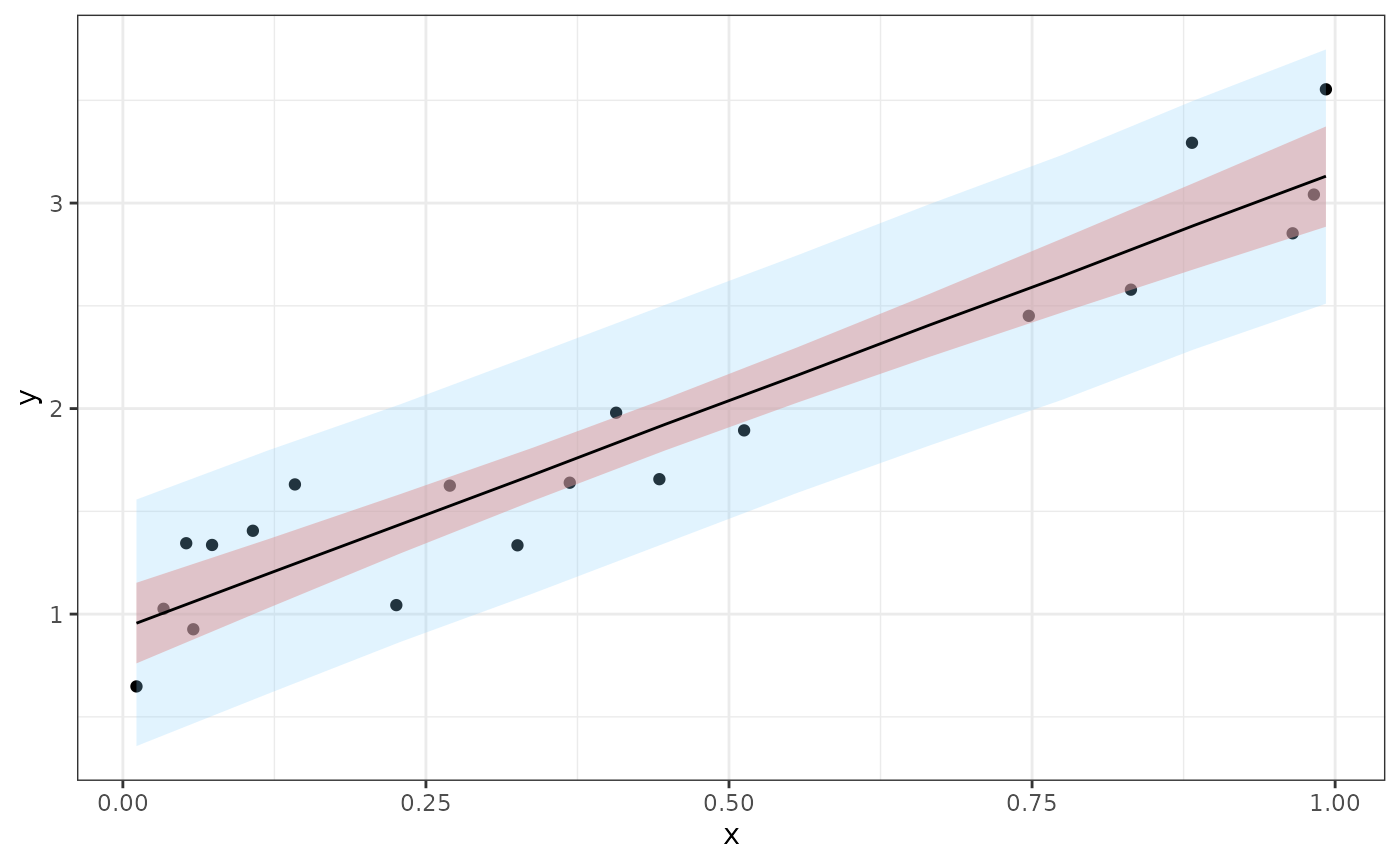
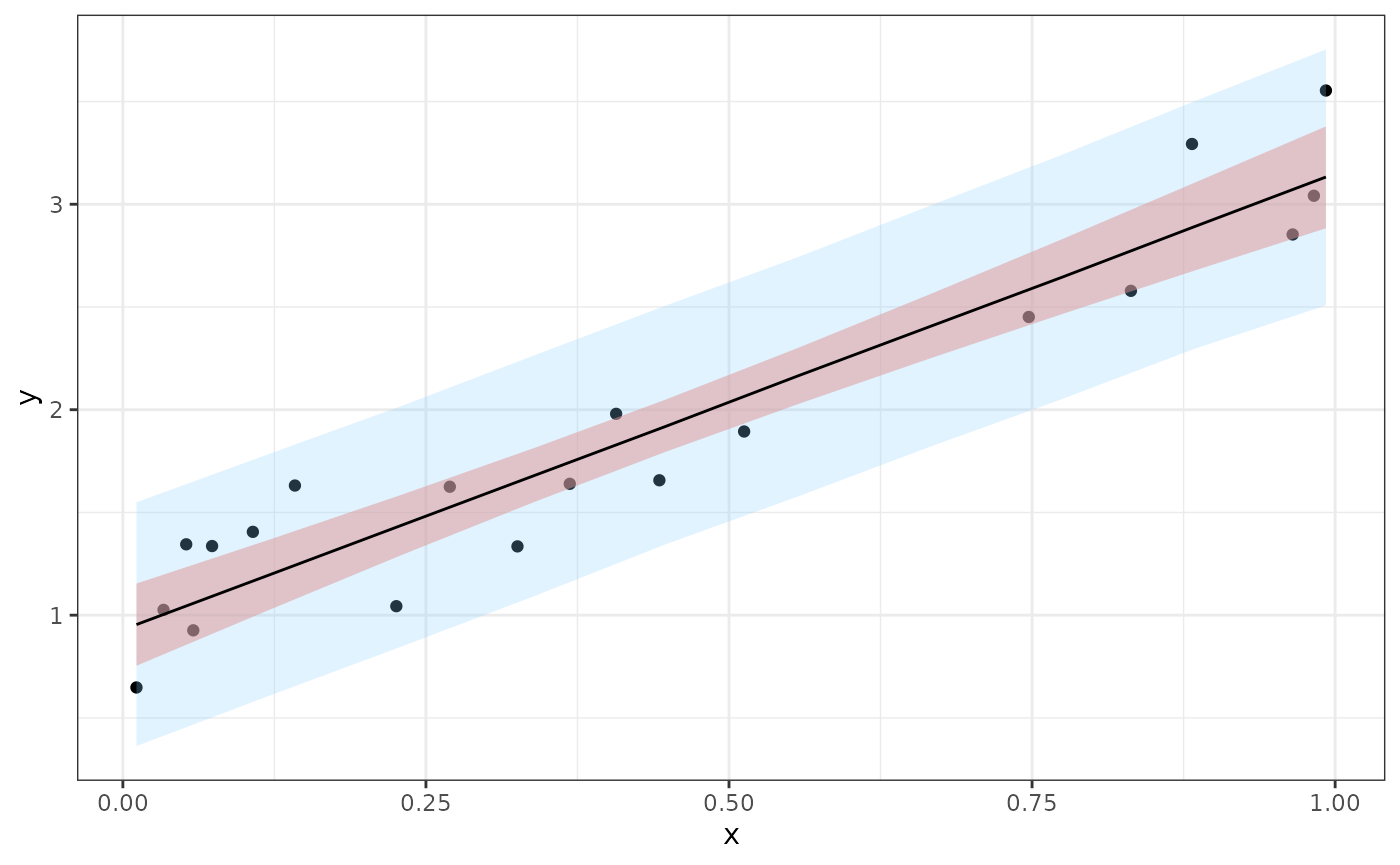
Built site for mmcc: 0.0.9.9000@895099c

diff --git a/articles/lm.html b/articles/lm.html
@@ -44,9 +44,6 @@
   <a href="../articles/lm.html">Model summaries for a Bayesian linear regression</a>
 </li>
 <li>
-  <a href="../articles/using-mmcc-w-greta.html">Using mmcc with greta</a>
-</li>
-<li>
   <a href="../news/index.html">News</a>
 </li>
       </ul>
@@ -66,7 +63,7 @@
       <h1 data-toc-skip>Model summaries for a Bayesian linear regression</h1>
                         <h4 class="author">Sam Clifford</h4>
             
-            <h4 class="date">2021-07-05</h4>
+            <h4 class="date">2021-09-30</h4>
       
       
       <div class="hidden name"><code>lm.Rmd</code></div>
@@ -124,7 +121,7 @@
 }"</span></code></pre></div>
 <p>and then generate the <code>mcmc_object</code> with the <code>rjags</code> package.</p>
 <div class="sourceCode" id="cb4"><pre class="downlit sourceCode r">
-<code class="sourceCode R"><span class="kw"><a href="https://rdrr.io/r/base/library.html">library</a></span><span class="op">(</span><span class="va"><a href="http://mcmc-jags.sourceforge.net">rjags</a></span><span class="op">)</span>
+<code class="sourceCode R"><span class="kw"><a href="https://rdrr.io/r/base/library.html">library</a></span><span class="op">(</span><span class="va"><a href="https://mcmc-jags.sourceforge.io">rjags</a></span><span class="op">)</span>
 <span class="co">#&gt; Loading required package: coda</span>
 <span class="co">#&gt; Linked to JAGS 4.3.0</span>
 <span class="co">#&gt; Loaded modules: basemod,bugs</span>
@@ -168,17 +165,17 @@
 <span class="va">samples_dt</span> <span class="op">&lt;-</span> <span class="fu"><a href="../reference/mcmc_to_dt.html">mcmc_to_dt</a></span><span class="op">(</span><span class="va">samples</span><span class="op">)</span>
 <span class="va">samples_dt</span>
 <span class="co">#&gt;         iteration chain  parameter     value</span>
-<span class="co">#&gt;      1:         1     1     beta_0 0.9043032</span>
-<span class="co">#&gt;      2:         2     1     beta_0 0.9724755</span>
-<span class="co">#&gt;      3:         3     1     beta_0 0.9657901</span>
-<span class="co">#&gt;      4:         4     1     beta_0 0.8836063</span>
-<span class="co">#&gt;      5:         5     1     beta_0 1.0218659</span>
+<span class="co">#&gt;      1:         1     1     beta_0 0.7040640</span>
+<span class="co">#&gt;      2:         2     1     beta_0 0.9175383</span>
+<span class="co">#&gt;      3:         3     1     beta_0 0.9348972</span>
+<span class="co">#&gt;      4:         4     1     beta_0 0.9105159</span>
+<span class="co">#&gt;      5:         5     1     beta_0 0.9153644</span>
 <span class="co">#&gt;     ---                                     </span>
-<span class="co">#&gt; 689996:      9996     3 y_pred[10] 3.2020422</span>
-<span class="co">#&gt; 689997:      9997     3 y_pred[10] 3.3930977</span>
-<span class="co">#&gt; 689998:      9998     3 y_pred[10] 2.7892213</span>
-<span class="co">#&gt; 689999:      9999     3 y_pred[10] 3.0484870</span>
-<span class="co">#&gt; 690000:     10000     3 y_pred[10] 3.4956721</span>
+<span class="co">#&gt; 689996:      9996     3 y_pred[10] 3.1573179</span>
+<span class="co">#&gt; 689997:      9997     3 y_pred[10] 3.4241534</span>
+<span class="co">#&gt; 689998:      9998     3 y_pred[10] 3.0473054</span>
+<span class="co">#&gt; 689999:      9999     3 y_pred[10] 2.9688662</span>
+<span class="co">#&gt; 690000:     10000     3 y_pred[10] 2.9651608</span>
 
 <span class="va">pars_dt</span> <span class="op">&lt;-</span> <span class="fu"><a href="https://generics.r-lib.org/reference/tidy.html">tidy</a></span><span class="op">(</span><span class="va">samples</span>, 
                 conf_level <span class="op">=</span> <span class="fl">0.95</span>, 
@@ -187,10 +184,10 @@
                              <span class="st">"tau_y"</span><span class="op">)</span><span class="op">)</span>
 
 <span class="va">pars_dt</span>
-<span class="co">#&gt;    parameter      mean        sd      2.5%    median     97.5%</span>
-<span class="co">#&gt; 1:    beta_0  0.928110 0.1006529 0.7320871  0.926899  1.130566</span>
-<span class="co">#&gt; 2:    beta_1  2.219867 0.1855108 1.8517240  2.222386  2.582066</span>
-<span class="co">#&gt; 3:     tau_y 13.809176 4.5969508 6.3290859 13.295207 24.210773</span></code></pre></div>
+<span class="co">#&gt;    parameter       mean        sd      2.5%     median     97.5%</span>
+<span class="co">#&gt; 1:    beta_0  0.9266717 0.1016570 0.7258147  0.9268829  1.131665</span>
+<span class="co">#&gt; 2:    beta_1  2.2216193 0.1869224 1.8527750  2.2206724  2.593475</span>
+<span class="co">#&gt; 3:     tau_y 13.7390184 4.5630844 6.2862258 13.2462648 23.976565</span></code></pre></div>
 <p>Summarise the line of best fit, <code>mu</code>, and the predictions, <code>y_pred</code>,</p>
 <div class="sourceCode" id="cb7"><pre class="downlit sourceCode r">
 <code class="sourceCode R"><span class="va">mu_dt</span> <span class="op">&lt;-</span> <span class="fu"><a href="https://generics.r-lib.org/reference/tidy.html">tidy</a></span><span class="op">(</span><span class="va">samples</span>, 
@@ -206,16 +203,16 @@
 <span class="va">y_dt</span><span class="op">[</span> , <span class="va">x</span><span class="op">:=</span> <span class="va">x_pred</span><span class="op">]</span>
 <span class="va">y_dt</span>
 <span class="co">#&gt;      parameter      mean        sd      2.5%    median    97.5%         x</span>
-<span class="co">#&gt;  1:  y_pred[1] 0.9557544 0.3023191 0.3577971 0.9556256 1.557481 0.0112199</span>
-<span class="co">#&gt;  2:  y_pred[2] 1.1972981 0.2971423 0.6135665 1.1948845 1.797454 0.1202395</span>
-<span class="co">#&gt;  3:  y_pred[3] 1.4372281 0.2928611 0.8653318 1.4332972 2.021741 0.2292590</span>
-<span class="co">#&gt;  4:  y_pred[4] 1.6776073 0.2936453 1.1003654 1.6773153 2.261923 0.3382786</span>
-<span class="co">#&gt;  5:  y_pred[5] 1.9232336 0.2930525 1.3451485 1.9226541 2.504727 0.4472982</span>
-<span class="co">#&gt;  6:  y_pred[6] 2.1619336 0.2934852 1.5899845 2.1598684 2.745758 0.5563177</span>
-<span class="co">#&gt;  7:  y_pred[7] 2.4063392 0.2944922 1.8200010 2.4079312 2.994632 0.6653373</span>
-<span class="co">#&gt;  8:  y_pred[8] 2.6433794 0.2997165 2.0418385 2.6429691 3.233053 0.7743569</span>
-<span class="co">#&gt;  9:  y_pred[9] 2.8907016 0.3054619 2.2875204 2.8941276 3.498914 0.8833765</span>
-<span class="co">#&gt; 10: y_pred[10] 3.1307127 0.3118148 2.5103146 3.1334262 3.747545 0.9923960</span></code></pre></div>
+<span class="co">#&gt;  1:  y_pred[1] 0.9541941 0.3014710 0.3628141 0.9545849 1.549396 0.0112199</span>
+<span class="co">#&gt;  2:  y_pred[2] 1.1947011 0.2970781 0.6068132 1.1948818 1.783926 0.1202395</span>
+<span class="co">#&gt;  3:  y_pred[3] 1.4360943 0.2963619 0.8457764 1.4367752 2.016978 0.2292590</span>
+<span class="co">#&gt;  4:  y_pred[4] 1.6771178 0.2948084 1.0901541 1.6770142 2.262103 0.3382786</span>
+<span class="co">#&gt;  5:  y_pred[5] 1.9177400 0.2940905 1.3438328 1.9157540 2.505609 0.4472982</span>
+<span class="co">#&gt;  6:  y_pred[6] 2.1633084 0.2960889 1.5764067 2.1630470 2.741451 0.5563177</span>
+<span class="co">#&gt;  7:  y_pred[7] 2.4038990 0.2946830 1.8185686 2.4042897 2.991927 0.6653373</span>
+<span class="co">#&gt;  8:  y_pred[8] 2.6440129 0.3009429 2.0508689 2.6444136 3.239760 0.7743569</span>
+<span class="co">#&gt;  9:  y_pred[9] 2.8896753 0.3053489 2.2950693 2.8884167 3.499913 0.8833765</span>
+<span class="co">#&gt; 10: y_pred[10] 3.1325867 0.3129946 2.5075516 3.1353279 3.753481 0.9923960</span></code></pre></div>
 <p>Now we’ll generate a plot that shows the data, a 95% credible interval for the predictions, <span class="math inline">\({\hat{\bm{y}}}_{pred}\)</span>, and a 95% credible interval for their means, <span class="math inline">\({\hat{\bm{\mu}}}_{pred}\)</span>.</p>
 <p><img src="lm_files/figure-html/mmcc-plot-cr-i-1.png" width="700" style="display: block; margin: auto;"></p>
 <p>If we tidy the <code>samples</code> object, we can look at the distribution of values</p>

diff --git a/reference/n_sims.html b/reference/n_sims.html
@@ -6,7 +6,7 @@
 <meta http-equiv="X-UA-Compatible" content="IE=edge">
 <meta name="viewport" content="width=device-width, initial-scale=1.0">
 
-<title>Objects exported from other packages — reexports • mmcc</title>
+<title>Return the number of simulations — n_sims • mmcc</title>
 
 
 <!-- jquery -->
@@ -39,13 +39,8 @@
 
 
 
-<meta property="og:title" content="Objects exported from other packages — reexports" />
-<meta property="og:description" content="These objects are imported from other packages. Follow the links
-below to see their documentation.
-
-  genericsglance, tidy
-
-" />
+<meta property="og:title" content="Return the number of simulations — n_sims" />
+<meta property="og:description" content="Return the number of simulations" />
 
 
 
@@ -108,22 +103,32 @@ below to see their documentation.
 <div class="row">
   <div class="col-md-9 contents">
     <div class="page-header">
-    <h1>Objects exported from other packages</h1>
+    <h1>Return the number of simulations</h1>
     
-    <div class="hidden name"><code>reexports.Rd</code></div>
+    <div class="hidden name"><code>n_sims.Rd</code></div>
     </div>
 
     <div class="ref-description">
-    <p>These objects are imported from other packages. Follow the links
-below to see their documentation.</p>
-<dl>
-  <dt>generics</dt><dd><p><code><a href='https://generics.r-lib.org/reference/glance.html'>glance</a></code>, <code><a href='https://generics.r-lib.org/reference/tidy.html'>tidy</a></code></p></dd>
-
-</dl>
+    <p>Return the number of simulations</p>
     </div>
 
+    <pre class="usage"><span class='fu'>n_sims</span><span class='op'>(</span><span class='va'>x</span><span class='op'>)</span></pre>
 
+    <h2 class="hasAnchor" id="arguments"><a class="anchor" href="#arguments"></a>Arguments</h2>
+    <table class="ref-arguments">
+    <colgroup><col class="name" /><col class="desc" /></colgroup>
+    <tr>
+      <th>x</th>
+      <td><p>mcmc list</p></td>
+    </tr>
+    </table>
 
+    <h2 class="hasAnchor" id="value"><a class="anchor" href="#value"></a>Value</h2>
+
+    <p>integer of number of simulations</p>
+    <h2 class="hasAnchor" id="author"><a class="anchor" href="#author"></a>Author</h2>
+
+    <p>Nicholas Tierney</p>
 
   </div>
   <div class="col-md-3 hidden-xs hidden-sm" id="pkgdown-sidebar">

diff --git a/reference/example_jags_model.html b/reference/example_jags_model.html
@@ -90,9 +90,6 @@ the data-raw folder." />
   <a href="../articles/lm.html">Model summaries for a Bayesian linear regression</a>
 </li>
 <li>
-  <a href="../articles/using-mmcc-w-greta.html">Using mmcc with greta</a>
-</li>
-<li>
   <a href="../news/index.html">News</a>
 </li>
       </ul>
@@ -133,7 +130,7 @@ the <code>data-raw</code> folder.</p>
     <p>An object of class <code>jags</code> of length 8.</p>
 
     <h2 class="hasAnchor" id="examples"><a class="anchor" href="#examples"></a>Examples</h2>
-    <pre class="examples"><div class='input'><span class='kw'><a href='https://rdrr.io/r/base/library.html'>library</a></span><span class='op'>(</span><span class='va'><a href='http://mcmc-jags.sourceforge.net'>rjags</a></span><span class='op'>)</span>
+    <pre class="examples"><div class='input'><span class='kw'><a href='https://rdrr.io/r/base/library.html'>library</a></span><span class='op'>(</span><span class='va'><a href='https://mcmc-jags.sourceforge.io'>rjags</a></span><span class='op'>)</span>
 </div><div class='output co'>#&gt; <span class='message'>Linked to JAGS 4.3.0</span></div><div class='output co'>#&gt; <span class='message'>Loaded modules: basemod,bugs</span></div><div class='input'><span class='va'>example_jags_model</span><span class='op'>$</span><span class='fu'>recompile</span><span class='op'>(</span><span class='op'>)</span>
 </div><div class='output co'>#&gt; Compiling model graph
 #&gt;    Resolving undeclared variables

diff --git a/reference/glance.dic.html b/reference/glance.dic.html
@@ -87,9 +87,6 @@ optimism (when type was popt), and resulting penalised deviance." />
   <a href="../articles/lm.html">Model summaries for a Bayesian linear regression</a>
 </li>
 <li>
-  <a href="../articles/using-mmcc-w-greta.html">Using mmcc with greta</a>
-</li>
-<li>
   <a href="../news/index.html">News</a>
 </li>
       </ul>
@@ -143,7 +140,7 @@ optimism (when <code>type</code> was popt), and resulting penalised deviance.</p
     <p>Sam Clifford, <a href='mailto:sj.clifford@gmail.com'>sj.clifford@gmail.com</a></p>
 
     <h2 class="hasAnchor" id="examples"><a class="anchor" href="#examples"></a>Examples</h2>
-    <pre class="examples"><div class='input'><span class='kw'><a href='https://rdrr.io/r/base/library.html'>library</a></span><span class='op'>(</span><span class='va'><a href='http://mcmc-jags.sourceforge.net'>rjags</a></span><span class='op'>)</span>
+    <pre class="examples"><div class='input'><span class='kw'><a href='https://rdrr.io/r/base/library.html'>library</a></span><span class='op'>(</span><span class='va'><a href='https://mcmc-jags.sourceforge.io'>rjags</a></span><span class='op'>)</span>
 <span class='va'>example_jags_model</span><span class='op'>$</span><span class='fu'>recompile</span><span class='op'>(</span><span class='op'>)</span>
 </div><div class='output co'>#&gt; Compiling model graph
 #&gt;    Resolving undeclared variables

diff --git a/news/index.html b/news/index.html
@@ -84,9 +84,6 @@
   <a href="../articles/lm.html">Model summaries for a Bayesian linear regression</a>
 </li>
 <li>
-  <a href="../articles/using-mmcc-w-greta.html">Using mmcc with greta</a>
-</li>
-<li>
   <a href="../news/index.html">News</a>
 </li>
       </ul>
@@ -109,14 +106,15 @@
       
     </div>
 
-    <div id="mmcc-0099000-20190218" class="section level1">
+    <div id="mmcc-0099000-20210930" class="section level1">
 <h1 class="page-header" data-toc-text="0.0.9.9000">
-<a href="#mmcc-0099000-20190218" class="anchor"></a>mmcc 0.0.9.9000 (2019/02/18)</h1>
+<a href="#mmcc-0099000-20210930" class="anchor"></a>mmcc 0.0.9.9000 (2021/09/30)</h1>
 <div id="new-features" class="section level2">
 <h2 class="hasAnchor">
 <a href="#new-features" class="anchor"></a>New Features</h2>
 <ul>
 <li>Implement dimension amounts for <code>n_var</code>, <code>n_iter</code> and <code>n_chain</code> #33</li>
+<li>Implement <code>n_sims</code> - #50</li>
 </ul>
 </div>
 </div>

diff --git a/reference/index.html b/reference/index.html
@@ -84,9 +84,6 @@
   <a href="../articles/lm.html">Model summaries for a Bayesian linear regression</a>
 </li>
 <li>
-  <a href="../articles/using-mmcc-w-greta.html">Using mmcc with greta</a>
-</li>
-<li>
   <a href="../news/index.html">News</a>
 </li>
       </ul>
@@ -194,6 +191,12 @@
           <p><code><a href="mcmc_to_dt.stanfit.html">mcmc_to_dt(<i>&lt;stanfit&gt;</i>)</a></code> </p>
         </td>
         <td><p>MCMC tidiers (draft) for STAN</p></td>
+      </tr><tr>
+        
+        <td>
+          <p><code><a href="n_sims.html">n_sims()</a></code> </p>
+        </td>
+        <td><p>Return the number of simulations</p></td>
       </tr><tr>
         
         <td>

diff --git a/reference/example_stan_model.html b/reference/example_stan_model.html
@@ -86,9 +86,6 @@ was created with the example code given below in examples." />
   <a href="../articles/lm.html">Model summaries for a Bayesian linear regression</a>
 </li>
 <li>
-  <a href="../articles/using-mmcc-w-greta.html">Using mmcc with greta</a>
-</li>
-<li>
   <a href="../news/index.html">News</a>
 </li>
       </ul>

diff --git a/reference/glance.mcmc.list.html b/reference/glance.mcmc.list.html
@@ -87,9 +87,6 @@ values for effective sample size (ess), and rhat." />
   <a href="../articles/lm.html">Model summaries for a Bayesian linear regression</a>
 </li>
 <li>
-  <a href="../articles/using-mmcc-w-greta.html">Using mmcc with greta</a>
-</li>
-<li>
   <a href="../news/index.html">News</a>
 </li>
       </ul>

diff --git a/reference/mcmc-dims.html b/reference/mcmc-dims.html
@@ -90,9 +90,6 @@ n_iter(x) the number of iterations
   <a href="../articles/lm.html">Model summaries for a Bayesian linear regression</a>
 </li>
 <li>
-  <a href="../articles/using-mmcc-w-greta.html">Using mmcc with greta</a>
-</li>
-<li>
   <a href="../news/index.html">News</a>
 </li>
       </ul>

diff --git a/reference/mcmc_to_dt.html b/reference/mcmc_to_dt.html
@@ -86,9 +86,6 @@ or &quot;stan&quot; object." />
   <a href="../articles/lm.html">Model summaries for a Bayesian linear regression</a>
 </li>
 <li>
-  <a href="../articles/using-mmcc-w-greta.html">Using mmcc with greta</a>
-</li>
-<li>
   <a href="../news/index.html">News</a>
 </li>
       </ul>

diff --git a/reference/mcmc_to_dt.mcmc.list.html b/reference/mcmc_to_dt.mcmc.list.html
@@ -86,9 +86,6 @@ or &quot;stan&quot; object." />
   <a href="../articles/lm.html">Model summaries for a Bayesian linear regression</a>
 </li>
 <li>
-  <a href="../articles/using-mmcc-w-greta.html">Using mmcc with greta</a>
-</li>
-<li>
   <a href="../news/index.html">News</a>
 </li>
       </ul>

diff --git a/reference/tidy.mcmc.list.html b/reference/tidy.mcmc.list.html
@@ -89,9 +89,6 @@ over all chains." />
   <a href="../articles/lm.html">Model summaries for a Bayesian linear regression</a>
 </li>
 <li>
-  <a href="../articles/using-mmcc-w-greta.html">Using mmcc with greta</a>
-</li>
-<li>
   <a href="../news/index.html">News</a>
 </li>
       </ul>
